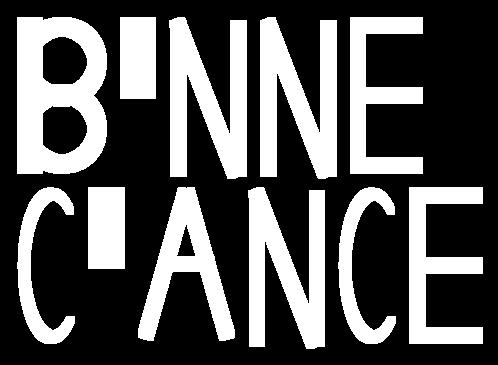
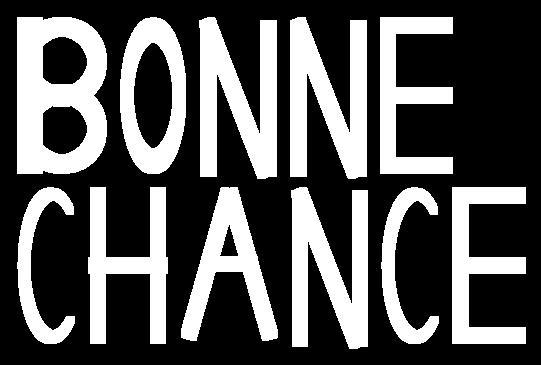
o et h marhcent

diff --git a/src/main/java/Letter/LetterFactory.java b/src/main/java/Letter/LetterFactory.java
@@ -127,10 +127,26 @@ public final class LetterFactory {
      * @return BaseShape containing the letter H
      */
     public static BaseShape create_H() {
-        Rectangle rectangle = new Rectangle(halfMaxWidth, halfMaxHeight);
-        Rectangle rectangle2 = new Rectangle(halfMaxWidth, halfMaxHeight);
-        BaseShape finalshape = new BaseShape(rectangle.cloneCoords());
-        return finalshape;
+        BaseShape h = new BaseShape();
+        Rectangle leftRectangle = new Rectangle(halfStripeThickness,maxHeight);
+        Rectangle rightRectangle = new Rectangle(halfStripeThickness,maxHeight);
+        Rectangle midRectangle = new Rectangle(halfStripeThickness,halfMaxHeight - 2.9);
+
+
+
+        Point2d rightBarTranslationVector = new Point2d(maxWidth, 0.0);
+        Double rotationAngle = Math.PI/2;
+        Point2d midBarTranslationVector = new Point2d(30.0, 0.0);
+
+        rightRectangle.translate(rightRectangle.getCoords(), rightBarTranslationVector);
+        midRectangle.rotate(midRectangle.getCoords(), rotationAngle);
+        midRectangle.translate(midRectangle.getCoords(), midBarTranslationVector);
+
+        h.addAll(leftRectangle.getCoords());
+        h.addAll(rightRectangle.getCoords());
+        h.addAll(midRectangle.getCoords());
+
+        return h;
         //return null;
     }
 
@@ -169,9 +185,13 @@ public final class LetterFactory {
      * @return BaseShape containing the letter O
      */
     public static BaseShape create_O() {
-        Rectangle rectangle = new Rectangle(halfMaxWidth, halfMaxHeight);
-        BaseShape finalshape = new BaseShape(rectangle.cloneCoords());
-        return finalshape;
+        BaseShape o = new BaseShape();
+        Ellipse smallEllipse = new Ellipse(1.5*halfMaxWidth, 1.5*halfMaxHeight);
+        Ellipse bigElipse = new Ellipse(maxWidth, maxHeight);
+
+        o.addAll(bigElipse.cloneCoords());
+        o.removeAll(smallEllipse.getCoords());
+        return o;
     }
 
 }
